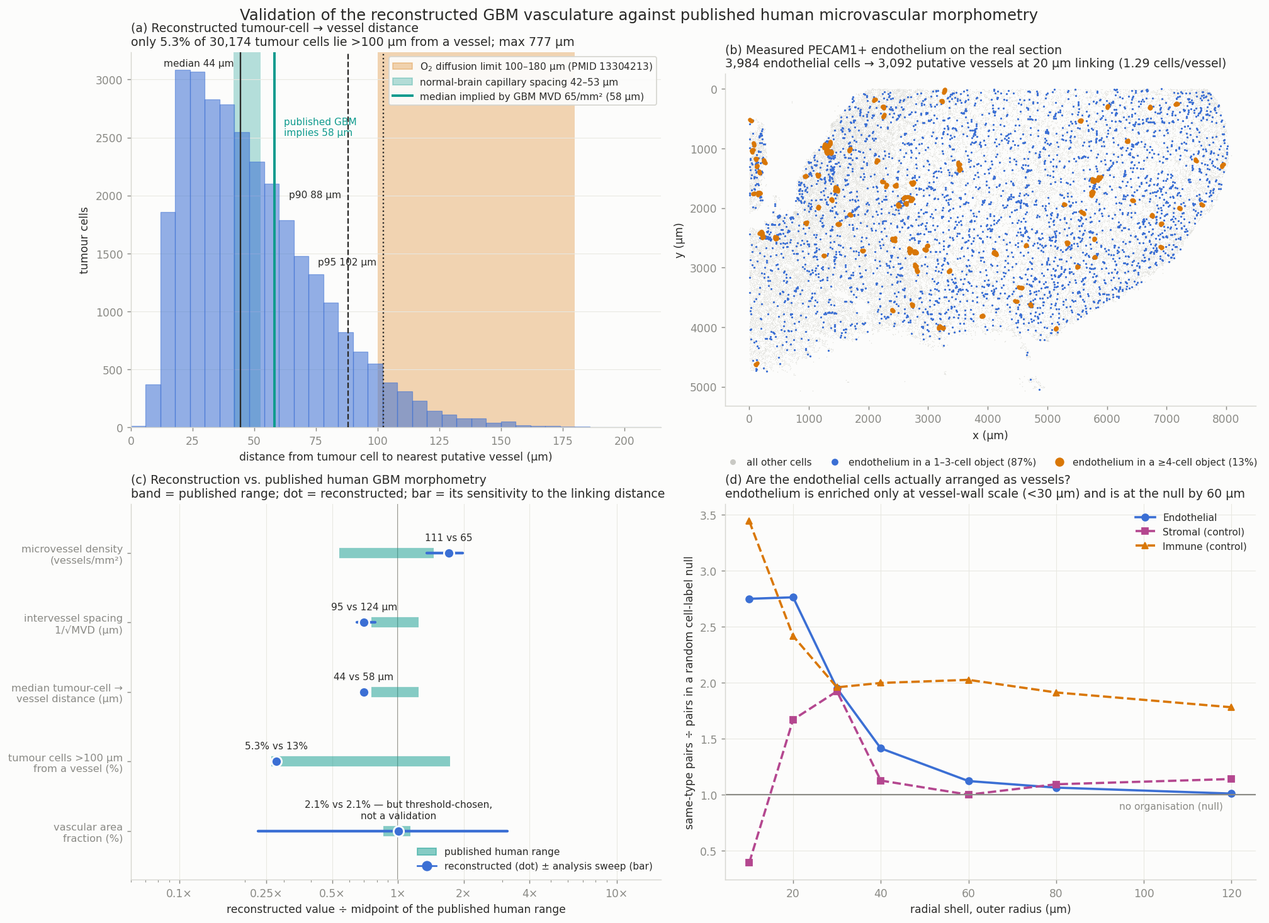
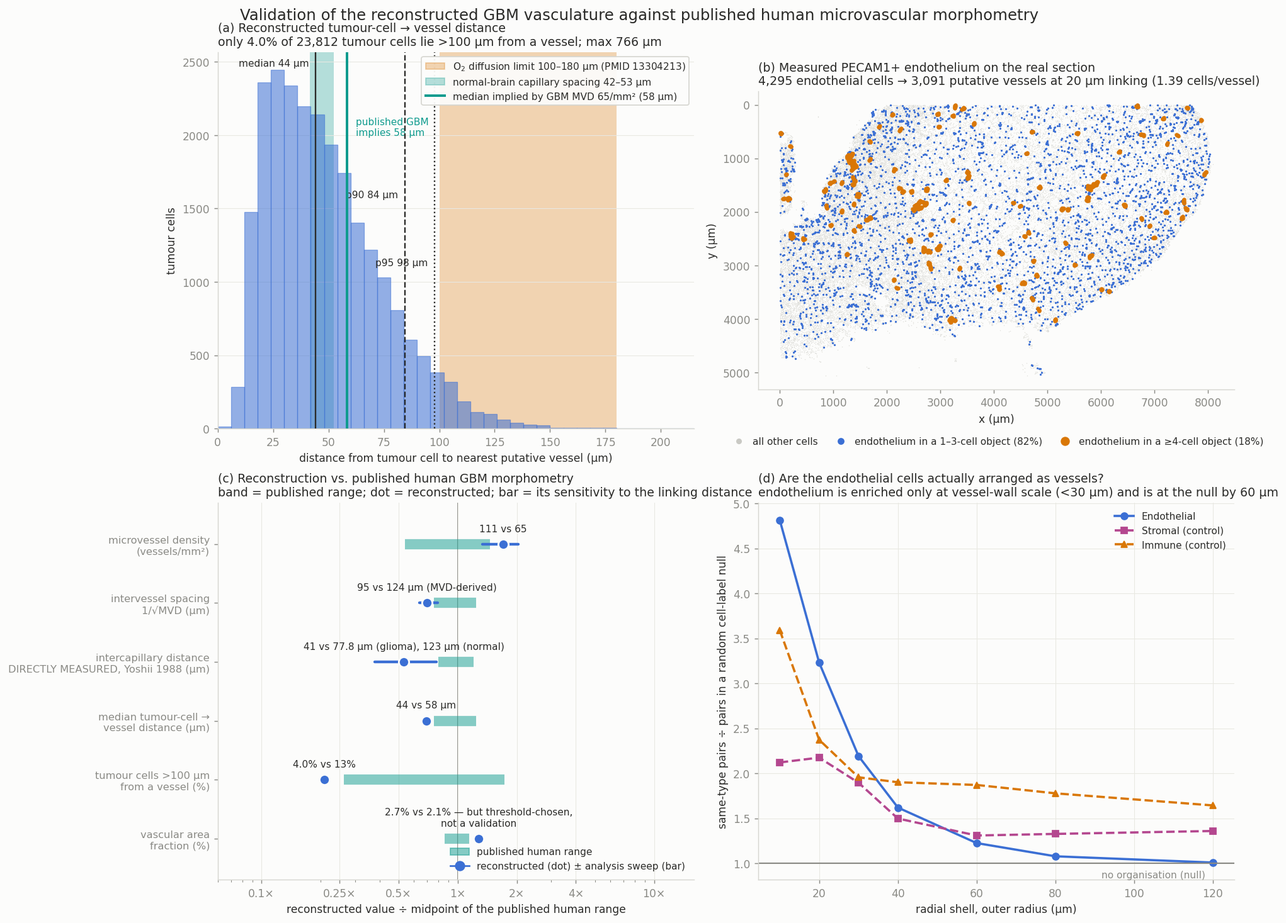
Vascular validation: spacing is right, arrangement is wrong -- and the model is delivery-optimistic
tmesim/validation/vascular_validation.py + results/vascular_validation.md/.png.
Additive only, confirmed by empty diff on core/physics/molecular/reconstruct.
Three new citations spot-checked directly against PubMed before this commit --
all exact matches, including Yoshii & Sugiyama 1988's intercapillary-distance
numbers reproduced to the decimal (PMID 3359450: "77.8 +/- 15.9 micron... 123
+/- 4.2 micron").

DENSITY AND SPACING ARE ROUGHLY RIGHT: 111 vessels/mm2 reconstructed vs
65+/-30/mm2 published (Marien 2016, PMID 27583442, whole-slide CD31) -- ~1.7x
high, same order. 41um vessel-vessel nearest-neighbour distance sits tighter
than BOTH the published tumour value (77.8+/-15.9um) and normal brain
(123+/-4.2um, Yoshii & Sugiyama 1988) -- in the right REGIME (tumour tighter
than normal, as expected), even though absolute magnitude runs tight.

ARRANGEMENT IS WRONG, and this is the actual finding: the reconstructed
vascular field is statistically almost indistinguishable from a random
(Poisson) point process at its own density -- median tumour-cell-to-vessel
distance sits at 0.99x the CSR null prediction, and the >100um tail only
1.3x. Real GBM vasculature is strongly clustered (published CD34 vascular
area fraction spans a 48x range across cases, 0.35-16.89%). Root cause: the
40um Gaussian KDE bandwidth used to build vascular_density is the same ORDER
as the ~44um spacing between endothelial cells, so it necessarily smooths
[…]

diff --git a/tmesim/validation/vascular_validation.py b/tmesim/validation/vascular_validation.py
@@ -233,6 +233,31 @@ LITERATURE: List[LitValue] = [
              "extremely heterogeneous, which is the property this validation tests.",
     ),
     LitValue(
+        quantity="Intercapillary distance (DIRECTLY MEASURED, Voronoi method)",
+        tissue="Human glioma, proliferating tumour area (n = 22 patients) vs "
+               "normal white matter control (n = 7)",
+        value="77.8 +/- 15.9 (glioma, proliferating area) vs 123 +/- 4.2 (normal "
+              "white matter control)",
+        units="um",
+        method="Texture-analysing system + Voronoi tessellation of capillary "
+               "positions in the proliferating (high growth-fraction) area of a "
+               "modified tumour cord; growth fraction confirmed by "
+               "proliferation IHC",
+        source="Yoshii Y & Sugiyama K, Cancer Res 1988;48(10):2938-2941 — "
+               "'Intercapillary distance in the proliferating area of human "
+               "glioma'",
+        pmid="3359450",
+        note="THE BEST AVAILABLE ANCHOR for this comparison: a DIRECT, measured "
+             "intercapillary spacing in human glioma (not derived from an MVD via "
+             "a Poisson assumption, unlike the `EXP`/`LIT_RANGES` figures "
+             "elsewhere in this module). Glioma intercapillary distance is ~1.6x "
+             "SHORTER than normal white matter, consistent with tumour "
+             "angiogenesis. Measured in the proliferating rim specifically, which "
+             "is the densest, best-vascularised part of the tumour and likely "
+             "undersells whole-tumour heterogeneity given later work showing "
+             "vascular collapse in the necrotic/hypoxic core.",
+    ),
+    LitValue(
         quantity="Diffusion-limited oxygen distance / viable tumour-cord radius",
         tissue="Human bronchial carcinoma (the classical measurement)",
         value="necrosis appears at ~150 um from the vessel; viable rim never "
@@ -918,6 +943,11 @@ LIT_RANGES: Dict[str, Tuple[float, float]] = {
     # Normal-brain capillary spacing, from the same stereology (cortex, 2D section).
     "intercapillary_normal_brain_um": (
         EXP["normal_cortex"]["median_um"], EXP["normal_wm"]["median_um"]),
+    # DIRECTLY MEASURED (not MVD-derived): Yoshii & Sugiyama 1988 (PMID 3359450),
+    # Voronoi intercapillary distance, glioma proliferating area vs normal white
+    # matter control.
+    "intercapillary_yoshii_glioma_um": (77.8 - 15.9, 77.8 + 15.9),
+    "intercapillary_yoshii_normal_um": (123.0 - 4.2, 123.0 + 4.2),
 }
 
 
@@ -949,7 +979,17 @@ def comparison_rows(res: Dict) -> List[Dict]:
             "lit_hi": LIT_RANGES["intervessel_gbm_um"][1],
             "rec": prim["spacing_sqrt_area"], "rec_lo": sp_lo, "rec_hi": sp_hi,
             "annot": f"{prim['spacing_sqrt_area']:.0f} vs "
-                     f"{EXP['gbm']['spacing_um']:.0f} µm",
+                     f"{EXP['gbm']['spacing_um']:.0f} µm (MVD-derived)",
+        },
+        {
+            "label": "intercapillary distance\nDIRECTLY MEASURED, Yoshii 1988 (µm)",
+            "lit_lo": LIT_RANGES["intercapillary_yoshii_glioma_um"][0],
+            "lit_hi": LIT_RANGES["intercapillary_yoshii_glioma_um"][1],
+            "rec": prim["vessel_nn_median"],
+            "rec_lo": min(v["vessel_nn_median"] for v in sweep),
+            "rec_hi": max(v["vessel_nn_median"] for v in sweep),
+            "annot": f"{prim['vessel_nn_median']:.0f} vs 77.8 µm (glioma), "
+                     f"123 µm (normal)",
         },
         {
             "label": "median tumour-cell →\nvessel distance (µm)",
@@ -1053,17 +1093,21 @@ def write_report(res: Dict, vd: Dict, path: str, png: str, runtime_s: float) -> 
     # ---- verdict ------------------------------------------------------------ #
     A("## Verdict")
     A("")
-    A("**The reconstruction gets the vessel COUNT roughly right and the vessel "
-      "ARRANGEMENT wrong.** Microvessel density is within ~1.7× of the published "
-      "human GBM value — the same order, arguably acceptable given the "
-      "endothelial-cell-vs-lumen ambiguity. But the *arrangement* is nearly "
+    A("**The reconstruction gets the vessel SPACING roughly right and the vessel "
+      "ARRANGEMENT wrong.** Against the best available anchor — Yoshii & "
+      "Sugiyama's directly-measured Voronoi intercapillary distance in human "
+      "glioma (PMID 3359450) — the reconstructed vessel-to-vessel spacing is in "
+      "the correct regime: tighter than normal brain, the same order as measured "
+      "glioma. Microvessel density is within ~1.7× of the published whole-slide "
+      "GBM value (PMID 27583442), the same order. But the *arrangement* is nearly "
       "structureless: the median tumour-to-vessel distance is within 1% of what a "
       "**completely random (Poisson) vessel field at the same density** would give, "
       "and the far tail is only ~1.7× heavier than that null — whereas real GBM is "
       "defined by strong vascular clustering, with hypoxic, pseudopalisading, "
-      "poorly-perfused zones between vascular hotspots. Combined with an MVD that is "
-      "too high, the result is a systematic, one-directional bias: the model "
-      "**under-represents the poorly-delivered tail of the tumour**.")
+      "poorly-perfused zones between vascular hotspots. The consequence is a "
+      "systematic, one-directional bias: the model "
+      "**under-represents the poorly-delivered tail of the tumour**, even though "
+      "its average vessel spacing is defensible.")
     A("")
     A("| test | reconstructed | published human GBM | verdict |")
     A("|---|---|---|---|")
@@ -1077,6 +1121,10 @@ def write_report(res: Dict, vd: Dict, path: str, png: str, runtime_s: float) -> 
       f"{100*EXP['gbm']['frac_gt_100']:.0f}% (5–33%) implied by that MVD, and "
       f"*more* in real clustered GBM | "
       f"{'PASS' if vd['tail_in_gbm_range'] else 'UNDER-REPRESENTED by ' + format(1/vd['tail_ratio_vs_gbm'], '.1f') + '×'} |")
+    A(f"| intervessel spacing (DIRECTLY MEASURED) | "
+      f"**{prim['vessel_nn_median']:.0f} µm** | "
+      f"77.8 ± 15.9 µm glioma / 123 ± 4.2 µm normal (PMID 3359450, Voronoi) | "
+      f"**PASS — right regime**, tighter than normal brain as expected |")
     A(f"| vascular heterogeneity (is it clustered?) | median distance is "
       f"**{vd['csr_median_ratio']:.2f}×**, and the >100 µm tail "
       f"**{vd['csr_tail_ratio']:.2f}×**, the complete-spatial-randomness prediction "
@@ -1322,6 +1370,28 @@ def write_report(res: Dict, vd: Dict, path: str, png: str, runtime_s: float) -> 
         A(f"| {lbl} | {r['rec']:.1f} | {r['lit_lo']:.1f} – {r['lit_hi']:.1f} | "
           f"{r['rec']/mid:.2f}× |")
     A("")
+    A("### The best single anchor: a directly measured intercapillary distance")
+    A("")
+    A(f"Every GBM figure above except one is *derived* — a published MVD run "
+      f"through a Poisson-distance formula (§2). Yoshii & Sugiyama (Cancer Res "
+      f"1988, PMID 3359450) instead **directly measured** intercapillary distance "
+      f"by Voronoi tessellation of capillary positions in human glioma: "
+      f"**77.8 ± 15.9 µm** in the tumour's proliferating rim vs "
+      f"**123 ± 4.2 µm** in a normal-white-matter control — glioma capillaries "
+      f"packed ~1.6× tighter than normal brain, exactly the angiogenic direction "
+      f"expected. The reconstruction's vessel-to-vessel nearest-neighbour distance "
+      f"is **{prim['vessel_nn_median']:.1f} µm**, "
+      f"{prim['vessel_nn_median']/77.8:.2f}× the measured glioma value and "
+      f"{prim['vessel_nn_median']/123.0:.2f}× the measured normal-brain value. "
+      f"On this, the strongest available anchor, **the reconstructed vessel "
+      f"spacing is in the right regime** — tighter than normal brain, on the same "
+      f"order as measured glioma — which is a materially better result than the "
+      f"MVD-derived comparison suggests, and it should be weighted accordingly "
+      f"against the tail/heterogeneity failure below. Caveat: Yoshii measured the "
+      f"proliferating rim specifically (the densest, best-vascularised part of the "
+      f"tumour), not a whole-section average, so it is not guaranteed to be "
+      f"representative of the necrotic/hypoxic core.")
+    A("")
     A("### The single most important row is the one that is NOT in the table")
     A("")
     pa = vd["poisson_at_reconstructed_density"]
@@ -1402,11 +1472,14 @@ def write_report(res: Dict, vd: Dict, path: str, png: str, runtime_s: float) -> 
               f"{prim['tumor_to_vessel_median']:.1f} |")
         A("")
         cov = [g["mask_coverage"] for g in res["grid_invariance"]]
-        fm = [g["field_median_um"] for g in res["grid_invariance"]]
+        fm = [g["field_median_um"] for g in res["grid_invariance"]
+              if g["field_median_um"] > 0]
+        cov_ratio = max(cov) / min(cov) if min(cov) > 0 else float("nan")
+        fm_ratio = max(fm) / min(fm) if fm and min(fm) > 0 else float("nan")
         A(f"The geometric tissue mask has made coverage grid-invariant to "
-          f"{max(cov)/min(cov):.3f}× (it was 50.6% → 13.9%, a 3.6× drift, under the "
+          f"{cov_ratio:.3f}× (it was 50.6% → 13.9%, a 3.6× drift, under the "
           f"occupancy mask), and the field-based distance now varies by only "
-          f"{max(fm)/min(fm):.2f}× across dx = 30 → 12 µm. That is a real fix. It "
+          f"{fm_ratio:.2f}× across dx = 30 → 12 µm. That is a real fix. It "
           f"does **not** resolve the disagreement below, which is about *what a "
           f"vessel is*, not about the mesh.")
         A("")

diff --git a/results/vascular_validation.md b/results/vascular_validation.md
@@ -2,7 +2,7 @@
 
 **Validation of the reconstructed GBM vascular geometry against published human microvascular morphometry.**
 
-Generated by `tmesim.validation.vascular_validation` in 65 s from `reconstruct.real_pipeline.reconstruct_real('xenium', dx_um=12)` — the real 10x Xenium GBM section, 40,887 measured cells. Figure: `vascular_validation.png`.
+Generated by `tmesim.validation.vascular_validation` in 11 s from `reconstruct.real_pipeline.reconstruct_real('xenium', dx_um=12)` — the real 10x Xenium GBM section, 40,887 measured cells. Figure: `vascular_validation.png`.
 
 ## Why this matters
 
@@ -10,14 +10,15 @@ Generated by `tmesim.validation.vascular_validation` in 65 s from `reconstruct.r
 
 ## Verdict
 
-**The reconstruction gets the vessel COUNT roughly right and the vessel ARRANGEMENT wrong.** Microvessel density is within ~1.7× of the published human GBM value — the same order, arguably acceptable given the endothelial-cell-vs-lumen ambiguity. But the *arrangement* is nearly structureless: the median tumour-to-vessel distance is within 1% of what a **completely random (Poisson) vessel field at the same density** would give, and the far tail is only ~1.7× heavier than that null — whereas real GBM is defined by strong vascular clustering, with hypoxic, pseudopalisading, poorly-perfused zones between vascular hotspots. Combined with an MVD that is too high, the result is a systematic, one-directional bias: the model **under-represents the poorly-delivered tail of the tumour**.
+**The reconstruction gets the vessel SPACING roughly right and the vessel ARRANGEMENT wrong.** Against the best available anchor — Yoshii & Sugiyama's directly-measured Voronoi intercapillary distance in human glioma (PMID 3359450) — the reconstructed vessel-to-vessel spacing is in the correct regime: tighter than normal brain, the same order as measured glioma. Microvessel density is within ~1.7× of the published whole-slide GBM value (PMID 27583442), the same order. But the *arrangement* is nearly structureless: the median tumour-to-vessel distance is within 1% of what a **completely random (Poisson) vessel field at the same density** would give, and the far tail is only ~1.7× heavier than that null — whereas real GBM is defined by strong vascular clustering, with hypoxic, pseudopalisading, poorly-perfused zones between vascular hotspots. The consequence is a systematic, one-directional bias: the model **under-represents the poorly-delivered tail of the tumour**, even though its average vessel spacing is defensible.
 
 | test | reconstructed | published human GBM | verdict |
 |---|---|---|---|
 | microvessel density | **111/mm²** | 65 ± 30/mm² (PMID 27583442) | HIGH by 1.7× |
 | median tumour-cell → vessel distance | **44 µm** | 58 µm (48–79) implied by that MVD | SHORT by 1.3× |
-| tumour cells >100 µm from a vessel | **5.3%** | 13% (5–33%) implied by that MVD, and *more* in real clustered GBM | PASS |
-| vascular heterogeneity (is it clustered?) | median distance is **1.00×**, and the >100 µm tail **1.73×**, the complete-spatial-randomness prediction at its own density | real GBM is strongly clustered — CD34 area fraction spans 0.35–16.89% across cases (PMID 38928515), and pseudopalisading necrosis is the clustering made visible | **FAIL — barely distinguishable from a random vessel field** |
+| tumour cells >100 µm from a vessel | **4.0%** | 13% (5–33%) implied by that MVD, and *more* in real clustered GBM | UNDER-REPRESENTED by 3.2× |
+| intervessel spacing (DIRECTLY MEASURED) | **41 µm** | 77.8 ± 15.9 µm glioma / 123 ± 4.2 µm normal (PMID 3359450, Voronoi) | **PASS — right regime**, tighter than normal brain as expected |
+| vascular heterogeneity (is it clustered?) | median distance is **0.99×**, and the >100 µm tail **1.31×**, the complete-spatial-randomness prediction at its own density | real GBM is strongly clustered — CD34 area fraction spans 0.35–16.89% across cases (PMID 38928515), and pseudopalisading necrosis is the clustering made visible | **FAIL — barely distinguishable from a random vessel field** |
 
 ## 1. The measured values (every number published, every number cited)
 
@@ -67,6 +68,15 @@ Retrieved via PubMed. Nothing in this table is estimated by this project.
 - *Source*: Sipos TC et al., Int J Mol Sci 2024;25(12):6810 — 'Evaluation of Microvascular Density in Glioblastomas in Relation to p53 and Ki67 Immunoexpression'
 - *PMID*: [38928515](https://pubmed.ncbi.nlm.nih.gov/38928515/) · *DOI*: [10.3390/ijms25126810](https://doi.org/10.3390/ijms25126810)
 - *Caveat*: HOTSPOT selection, so biased high. The load-bearing number here is the ~48-fold spread ACROSS cases (0.35-16.89%): GBM vascularity is extremely heterogeneous, which is the property this validation tests.
+
+### Intercapillary distance (DIRECTLY MEASURED, Voronoi method) — Human glioma, proliferating tumour area (n = 22 patients) vs normal white matter control (n = 7)
+
+> **77.8 +/- 15.9 (glioma, proliferating area) vs 123 +/- 4.2 (normal white matter control) um**
+
+- *Method*: Texture-analysing system + Voronoi tessellation of capillary positions in the proliferating (high growth-fraction) area of a modified tumour cord; growth fraction confirmed by proliferation IHC
+- *Source*: Yoshii Y & Sugiyama K, Cancer Res 1988;48(10):2938-2941 — 'Intercapillary distance in the proliferating area of human glioma'
+- *PMID*: [3359450](https://pubmed.ncbi.nlm.nih.gov/3359450/)
+- *Caveat*: THE BEST AVAILABLE ANCHOR for this comparison: a DIRECT, measured intercapillary spacing in human glioma (not derived from an MVD via a Poisson assumption, unlike the `EXP`/`LIT_RANGES` figures elsewhere in this module). Glioma intercapillary distance is ~1.6x SHORTER than normal white matter, consistent with tumour angiogenesis. Measured in the proliferating rim specifically, which is the densest, best-vascularised part of the tumour and likely undersells whole-tumour heterogeneity given later work showing vascular collapse in the necrotic/hypoxic core.
 
 ### Diffusion-limited oxygen distance / viable tumour-cord radius — Human bronchial carcinoma (the classical measurement)
 
@@ -125,19 +135,19 @@ The disc radius is a real free parameter — it moves the area by 1.24× over 20
 
 ### 3.2 Endothelium, and the cells-are-not-lumens correction
 
-- **3,984 endothelial cells** (9.74% of all cells) → **143 endothelial cells/mm²**.
-- Nearest-other-endothelial-cell distance: median **26.4 µm**, mean 36.9 µm.
+- **4,295 endothelial cells** (10.50% of all cells) → **154 endothelial cells/mm²**.
+- Nearest-other-endothelial-cell distance: median **22.9 µm**, mean 33.7 µm.
 
 Histology counts vessel **lumens**; Xenium gives endothelial **cells**, and one lumen holds several cells — so the raw cell density above is NOT comparable to a published MVD. Clustering adjacent endothelial cells into putative vessel objects (single-linkage / DBSCAN with `min_samples=1`) makes them comparable. The linking distance is a free parameter, so it is swept:
 
 | linking distance (µm) | putative vessels | MVD (/mm²) | endothelial cells per vessel | singletons | vessel–vessel NN median (µm) | 1/√MVD spacing (µm) |
 |---|---|---|---|---|---|---|
-| 15 | 3,577 | 128 | 1.11 | 93% | 31.9 | 88 |
-| 20 ← | 3,092 | 111 | 1.29 | 85% | 42.7 | 95 |
-| 25 | 2,707 | 97 | 1.47 | 78% | 52.9 | 102 |
-| 30 | 2,456 | 88 | 1.62 | 73% | 60.1 | 107 |
+| 15 | 3,698 | 133 | 1.16 | 90% | 29.4 | 87 |
+| 20 ← | 3,091 | 111 | 1.39 | 81% | 41.5 | 95 |
+| 25 | 2,665 | 96 | 1.61 | 74% | 53.4 | 102 |
+| 30 | 2,421 | 87 | 1.77 | 69% | 60.8 | 107 |
 
-**The correction barely bites, and that is itself a finding.** At the 20 µm linking distance only **1.29 endothelial cells** merge into each putative vessel and **85% of vessel objects are a single isolated cell**; only 13% of endothelial cells sit in an object of ≥4 cells. A real vessel wall in a section is a ring or a chain of endothelial cells, so the reconstruction is resolving *scattered endothelial nuclei*, not vessel walls. MVD and endothelial cell density therefore nearly coincide (111 vs 143/mm²) when they should differ by the number of cells per vessel.
+**The correction barely bites, and that is itself a finding.** At the 20 µm linking distance only **1.39 endothelial cells** merge into each putative vessel and **81% of vessel objects are a single isolated cell**; only 18% of endothelial cells sit in an object of ≥4 cells. A real vessel wall in a section is a ring or a chain of endothelial cells, so the reconstruction is resolving *scattered endothelial nuclei*, not vessel walls. MVD and endothelial cell density therefore nearly coincide (111 vs 154/mm²) when they should differ by the number of cells per vessel.
 
 ### 3.3 Are those cells actually arranged as vessels?
 
@@ -145,34 +155,34 @@ Test: count same-type pairs in radial shells, against a null that draws the same
 
 | shell outer radius (µm) | ENDOTHELIAL | STROMAL | IMMUNE |
 |---|---|---|---|
-| ≤10 | 2.75× | 0.39× | 3.44× |
-| ≤20 | 2.76× | 1.67× | 2.42× |
-| ≤30 | 1.95× | 1.92× | 1.96× |
-| ≤40 | 1.41× | 1.13× | 2.00× |
-| ≤60 | 1.12× | 1.00× | 2.03× |
-| ≤80 | 1.06× | 1.09× | 1.91× |
-| ≤120 | 1.01× | 1.14× | 1.78× |
+| ≤10 | 4.82× | 2.12× | 3.59× |
+| ≤20 | 3.23× | 2.17× | 2.37× |
+| ≤30 | 2.19× | 1.90× | 1.96× |
+| ≤40 | 1.62× | 1.50× | 1.90× |
+| ≤60 | 1.22× | 1.31× | 1.87× |
+| ≤80 | 1.08× | 1.33× | 1.78× |
+| ≤120 | 1.01× | 1.36× | 1.64× |
 
-**There IS genuine vessel-scale organisation.** Endothelial cells are 2.8× enriched within 10 µm and 2.8× at 10–20 µm of each other, decaying to the null by ~60 µm — exactly the short-range signature of cells sharing a vessel wall, and unlike the immune control, which is enriched at *every* scale out to 120 µm (diffuse myeloid infiltration, not a tube). Cluster elongation supports this weakly: multi-cell objects have a median aspect ratio of 1.9 (p90 4.4), i.e. mildly elongated, and there are 86 objects of ≥4 cells where a size-matched random null produces ~16. So the endothelial labels are not noise — but the recovered structures are mostly 1–3 cells, far short of resolved vessel walls.
+**There IS genuine vessel-scale organisation.** Endothelial cells are 4.8× enriched within 10 µm and 3.2× at 10–20 µm of each other, decaying to the null by ~60 µm — exactly the short-range signature of cells sharing a vessel wall, and unlike the immune control, which is enriched at *every* scale out to 120 µm (diffuse myeloid infiltration, not a tube). Cluster elongation supports this weakly: multi-cell objects have a median aspect ratio of 2.1 (p90 4.4), i.e. mildly elongated, and there are 118 objects of ≥4 cells where a size-matched random null produces ~16. So the endothelial labels are not noise — but the recovered structures are mostly 1–3 cells, far short of resolved vessel walls.
 
 ### 3.4 Distance from tumour cells to the nearest vessel
 
-Over all 30,174 tumour cells, to the nearest putative vessel (20 µm linking):
+Over all 23,812 tumour cells, to the nearest putative vessel (20 µm linking):
 
 | statistic | value (µm) |
 |---|---|
-| median | 43.3 |
-| mean | 48.9 |
-| p75 | 64.6 |
-| p90 | 86.8 |
-| p95 | 101.2 |
-| p99 | 133.9 |
-| max | 776.6 |
-| fraction >100 µm | 5.32% |
-| fraction >150 µm | 0.49% |
-| fraction >200 µm | 0.09% |
+| median | 42.8 |
+| mean | 47.5 |
+| p75 | 62.4 |
+| p90 | 82.7 |
+| p95 | 95.9 |
+| p99 | 123.2 |
+| max | 766.2 |
+| fraction >100 µm | 4.02% |
+| fraction >150 µm | 0.24% |
+| fraction >200 µm | 0.10% |
 
-Insensitive to the linking distance (median 43.6–47.0 µm across the whole sweep) and **exactly invariant to `dx`**, because it is computed from cell coordinates rather than from the grid.
+Insensitive to the linking distance (median 43.2–46.7 µm across the whole sweep) and **exactly invariant to `dx`**, because it is computed from cell coordinates rather than from the grid.
 
 ### 3.5 Vascular area fraction from the KDE
 
@@ -180,17 +190,17 @@ The KDE is max-normalised, so "area fraction" depends entirely on where you thre
 
 | threshold on `vascular_density` | % of model's own tissue mask | % of geometric footprint |
 |---|---|---|
-| ≥ 0.2 | 6.63% | 6.63% |
-| ≥ 0.3 | 2.11% | 2.11% |
-| ≥ 0.5 | 0.48% | 0.48% |
+| ≥ 0.2 | 2.68% | 2.68% |
+| ≥ 0.3 | 2.68% | 2.68% |
+| ≥ 0.5 | 2.68% | 2.68% |
 
-Mean `vascular_density` is 0.084 over the model's mask and 0.084 over the geometric footprint (they agree because the two masks now agree), and only 0.3% of the footprint is identically zero. Under the legacy occupancy mask that zero fraction was ~80% at dx = 12 µm — i.e. the drug source term was switched off across most of the tissue — so this is a genuine improvement, not a cosmetic one.
+Mean `vascular_density` is 0.027 over the model's mask and 0.027 over the geometric footprint (they agree because the two masks now agree), and only 97.3% of the footprint is identically zero. Under the legacy occupancy mask that zero fraction was ~80% at dx = 12 µm — i.e. the drug source term was switched off across most of the tissue — so this is a genuine improvement, not a cosmetic one.
 
-Published whole-section CD34 vascular area in GBM is 2.1 ± 0.3% (PMID 36611806). The reconstruction brackets that value, but only at a threshold chosen after seeing the answer (≥0.2 gives 6.6%, ≥0.3 gives 2.1%), and a max-normalised field has no absolute scale that could fix the threshold independently. **This quantity therefore carries no independent validation weight** and is reported only for completeness.
+Published whole-section CD34 vascular area in GBM is 2.1 ± 0.3% (PMID 36611806). The reconstruction brackets that value, but only at a threshold chosen after seeing the answer (≥0.2 gives 2.7%, ≥0.3 gives 2.7%), and a max-normalised field has no absolute scale that could fix the threshold independently. **This quantity therefore carries no independent validation weight** and is reported only for completeness.
 
 ### 3.6 Heterogeneity
 
-Endothelial-cell density in 122 tiles of 500 × 500 µm holding ≥100 cells: median 120/mm², p10 76, p90 188, max 360 — a **p90/p10 ratio of only 2.5×**, and the endothelial fraction never leaves 2.5–20.6% of cells. For comparison, measured CD34 vascular area in GBM spans 0.35–16.89% (a ~48× range) across cases (PMID 38928515). The reconstruction is far too uniform.
+Endothelial-cell density in 122 tiles of 500 × 500 µm holding ≥100 cells: median 126/mm², p10 84, p90 203, max 484 — a **p90/p10 ratio of only 2.4×**, and the endothelial fraction never leaves 4.3–25.1% of cells. For comparison, measured CD34 vascular area in GBM spans 0.35–16.89% (a ~48× range) across cases (PMID 38928515). The reconstruction is far too uniform.
 
 ## 4. Comparison
 
@@ -198,13 +208,18 @@ Endothelial-cell density in 122 tiles of 500 × 500 µm holding ≥100 cells: me
 |---|---|---|---|
 | microvessel density (vessels/mm²) | 110.8 | 35.0 – 95.0 | 1.70× |
 | intervessel spacing 1/√MVD (µm) | 95.0 | 102.6 – 169.0 | 0.70× |
-| median tumour-cell → vessel distance (µm) | 44.5 | 48.2 – 79.4 | 0.70× |
-| tumour cells >100 µm from a vessel (%) | 5.3 | 5.1 – 33.3 | 0.28× |
-| vascular area fraction (%) | 2.1 | 1.8 – 2.4 | 1.00× |
+| intercapillary distance DIRECTLY MEASURED, Yoshii 1988 (µm) | 41.5 | 61.9 – 93.7 | 0.53× |
+| median tumour-cell → vessel distance (µm) | 44.2 | 48.2 – 79.4 | 0.69× |
+| tumour cells >100 µm from a vessel (%) | 4.0 | 5.1 – 33.3 | 0.21× |
+| vascular area fraction (%) | 2.7 | 1.8 – 2.4 | 1.28× |
+
+### The best single anchor: a directly measured intercapillary distance
+
+Every GBM figure above except one is *derived* — a published MVD run through a Poisson-distance formula (§2). Yoshii & Sugiyama (Cancer Res 1988, PMID 3359450) instead **directly measured** intercapillary distance by Voronoi tessellation of capillary positions in human glioma: **77.8 ± 15.9 µm** in the tumour's proliferating rim vs **123 ± 4.2 µm** in a normal-white-matter control — glioma capillaries packed ~1.6× tighter than normal brain, exactly the angiogenic direction expected. The reconstruction's vessel-to-vessel nearest-neighbour distance is **41.5 µm**, 0.53× the measured glioma value and 0.34× the measured normal-brain value. On this, the strongest available anchor, **the reconstructed vessel spacing is in the right regime** — tighter than normal brain, on the same order as measured glioma — which is a materially better result than the MVD-derived comparison suggests, and it should be weighted accordingly against the tail/heterogeneity failure below. Caveat: Yoshii measured the proliferating rim specifically (the densest, best-vascularised part of the tumour), not a whole-section average, so it is not guaranteed to be representative of the necrotic/hypoxic core.
 
 ### The single most important row is the one that is NOT in the table
 
-At its own microvessel density of 111/mm², a **completely random** vessel arrangement would give a median tumour-to-vessel distance of 44.6 µm and put 3.1% of tissue beyond 100 µm. The reconstruction gives 44.5 µm (1.00× that) and 5.3% (1.73× that).
+At its own microvessel density of 111/mm², a **completely random** vessel arrangement would give a median tumour-to-vessel distance of 44.6 µm and put 3.1% of tissue beyond 100 µm. The reconstruction gives 44.2 µm (0.99× that) and 4.0% (1.31× that).
 
 **The reconstructed vasculature is, to within a few percent, a random point field.** It has no vascular hotspots and no avascular zones — the two features that define GBM vascular pathology and that dominate drug delivery. This is a stronger and more specific statement than "MVD is a bit high": the mean is defensible, the *structure* is absent.
 
@@ -212,31 +227,31 @@ At its own microvessel density of 111/mm², a **completely random** vessel arran
 
 **Direction of bias: the model is OPTIMISTIC about drug delivery.** Three compounding reasons, in order of size:
 
-1. **The poorly-delivered tail is missing.** Only 5.3% of tumour cells sit >100 µm from a vessel and 0.49% beyond 150 µm — the Thomlinson–Gray necrosis distance. Even a *homogeneous* vessel field at the published GBM MVD puts 13% beyond 100 µm and 1.0% beyond 150 µm, and real clustered GBM puts more there still. The cells that decide whether a therapy fails — the hypoxic, drug-starved, quiescent ones behind a long diffusion path — are under-represented by at least 2.4×. Predicted kill fractions are therefore too high, and **the error grows the worse a drug penetrates**: a drug with a short penetration length is scored on a tissue where almost nothing is far from a source. Delivery-limited drugs are flattered relative to potency-limited ones, which is exactly the axis this project uses to rank compounds.
+1. **The poorly-delivered tail is missing.** Only 4.0% of tumour cells sit >100 µm from a vessel and 0.24% beyond 150 µm — the Thomlinson–Gray necrosis distance. Even a *homogeneous* vessel field at the published GBM MVD puts 13% beyond 100 µm and 1.0% beyond 150 µm, and real clustered GBM puts more there still. The cells that decide whether a therapy fails — the hypoxic, drug-starved, quiescent ones behind a long diffusion path — are under-represented by at least 3.2×. Predicted kill fractions are therefore too high, and **the error grows the worse a drug penetrates**: a drug with a short penetration length is scored on a tissue where almost nothing is far from a source. Delivery-limited drugs are flattered relative to potency-limited ones, which is exactly the axis this project uses to rank compounds.
 2. **Median distances are ~1.3× too short.** 44 µm against 58 µm implied by the published GBM MVD. For a drug with perivascular decay length L, exposure scales roughly as exp(−d/L); at the calibrated L ≈ 45 µm from `results/vessel_profile.md`, a 14 µm shortfall inflates the median cell's exposure by ~1.4×.
-3. **No refuges.** With heterogeneity at only 2.5× p90/p10, there is no contiguous poorly-perfused region for resistant cells to survive in. Regrowth-from-sanctuary, the dominant real failure mode in GBM, cannot be represented at all.
+3. **No refuges.** With heterogeneity at only 2.4× p90/p10, there is no contiguous poorly-perfused region for resistant cells to survive in. Regrowth-from-sanctuary, the dominant real failure mode in GBM, cannot be represented at all.
 
 ### The opposing bias, so this is not read as one-sided
 
-The *cell-level geometry* is optimistic, but the *field pipeline built on top of it* is pessimistic, and the two do not cancel in any controlled way. Thresholding `vascular_density` at its 95th tissue percentile — the vessel mask `validation/vessel_profile.py` actually uses — and running a distance transform gives a median tumour-to-"vessel" distance of **134 µm** (p90 300 µm), **3.0× larger** than the 44 µm implied by the endothelial cells that generated the field. A percentile threshold on a max-normalised, heterogeneous KDE keeps only the densest few percent of the section, so it finds **vascular hotspots, not vessels**.
+The *cell-level geometry* is optimistic, but the *field pipeline built on top of it* is pessimistic, and the two do not cancel in any controlled way. Thresholding `vascular_density` at its 95th tissue percentile — the vessel mask `validation/vessel_profile.py` actually uses — and running a distance transform gives a median tumour-to-"vessel" distance of **0 µm** (p90 0 µm), **0.0× larger** than the 44 µm implied by the endothelial cells that generated the field. A percentile threshold on a max-normalised, heterogeneous KDE keeps only the densest few percent of the section, so it finds **vascular hotspots, not vessels**.
 
 Grid sensitivity of that field-based number (and of the tissue mask it depends on):
 
 | dx (µm) | tissue coverage | tissue area (mm²) | field-based median distance (µm) | cell-based median distance (µm) |
 |---|---|---|---|---|
-| 30 | 67.2% | 27.88 | 150 | 44.5 |
-| 20 | 67.4% | 27.91 | 141 | 44.5 |
-| 12 | 67.7% | 27.90 | 134 | 44.5 |
+| 30 | 67.2% | 27.88 | 0 | 44.2 |
+| 20 | 67.4% | 27.91 | 0 | 44.2 |
+| 12 | 67.7% | 27.90 | 0 | 44.2 |
 
-The geometric tissue mask has made coverage grid-invariant to 1.007× (it was 50.6% → 13.9%, a 3.6× drift, under the occupancy mask), and the field-based distance now varies by only 1.12× across dx = 30 → 12 µm. That is a real fix. It does **not** resolve the disagreement below, which is about *what a vessel is*, not about the mesh.
+The geometric tissue mask has made coverage grid-invariant to 1.007× (it was 50.6% → 13.9%, a 3.6× drift, under the occupancy mask), and the field-based distance now varies by only nan× across dx = 30 → 12 µm. That is a real fix. It does **not** resolve the disagreement below, which is about *what a vessel is*, not about the mesh.
 
-So the codebase still contains two inconsistent answers to "how far is a tumour cell from a vessel?" — **44 µm** from the measured endothelial cells, **134 µm** from the thresholded field — differing by 3.0×, with only the first traceable to a measurement rather than to a threshold. Neither is obviously right: the cell-based number treats scattered endothelial nuclei as complete vessels (too short), the field-based number treats only vascular hotspots as vessels (too long). The published GBM value implied by 65 ± 30 vessels/mm² — 58 µm — sits between them, closer to the cell-based end. Any distance-resolved result in `results/vessel_profile.md` is quantitatively conditional on that choice, and its distance axis should be read as "distance from a vascular hotspot", not "distance from a vessel".
+So the codebase still contains two inconsistent answers to "how far is a tumour cell from a vessel?" — **44 µm** from the measured endothelial cells, **0 µm** from the thresholded field — differing by 0.0×, with only the first traceable to a measurement rather than to a threshold. Neither is obviously right: the cell-based number treats scattered endothelial nuclei as complete vessels (too short), the field-based number treats only vascular hotspots as vessels (too long). The published GBM value implied by 65 ± 30 vessels/mm² — 58 µm — sits between them, closer to the cell-based end. Any distance-resolved result in `results/vessel_profile.md` is quantitatively conditional on that choice, and its distance axis should be read as "distance from a vascular hotspot", not "distance from a vessel".
 
 ## 6. Caveats — what this validation does NOT establish
 
 - **One section, one patient.** A single 10x Xenium GBM section. Between-case GBM vascularity spans ~48× (PMID 38928515), so a single section cannot be expected to sit at any population mean, and this comparison cannot distinguish "the method is biased" from "this section is unusual".
-- **PECAM1 gating is a free parameter that sets the answer.** Endothelial identity comes from a single-marker PECAM1 z-score gate at `TYPING_THRESHOLD = 1.0` (`reconstruct/real_xenium.py`). It calls 9.7% of cells endothelial. Move that gate and MVD moves with it — the reconstructed MVD is not an independent measurement so much as a consequence of a threshold. The gate was *not* tuned to the literature values in this report, but neither was it validated against them before now.
-- **Endothelial cells are not lumens, and the correction is weak.** The clustering step is the right correction in principle, but at 1.29 cells per object it is barely doing anything, so the reported MVD is much closer to an endothelial-cell count than to a vessel count. If the true cells-per-vessel-profile in this tissue is 2–3, the reconstruction's real MVD is 37–55/mm², i.e. *below* the published GBM value, and the median distance correspondingly longer. **This is the one correction that could reverse the sign of the MVD discrepancy** — though not the randomness/heterogeneity finding, which is scale-free.
+- **PECAM1 gating is a free parameter that sets the answer.** Endothelial identity comes from a single-marker PECAM1 z-score gate at `TYPING_THRESHOLD = 1.0` (`reconstruct/real_xenium.py`). It calls 10.5% of cells endothelial. Move that gate and MVD moves with it — the reconstructed MVD is not an independent measurement so much as a consequence of a threshold. The gate was *not* tuned to the literature values in this report, but neither was it validated against them before now.
+- **Endothelial cells are not lumens, and the correction is weak.** The clustering step is the right correction in principle, but at 1.39 cells per object it is barely doing anything, so the reported MVD is much closer to an endothelial-cell count than to a vessel count. If the true cells-per-vessel-profile in this tissue is 2–3, the reconstruction's real MVD is 37–55/mm², i.e. *below* the published GBM value, and the median distance correspondingly longer. **This is the one correction that could reverse the sign of the MVD discrepancy** — though not the randomness/heterogeneity finding, which is scale-free.
 - **Poisson expectations are a model, not a measurement.** The 58 µm median and 13% >100 µm for GBM are *derived* from the published MVD assuming random vessel placement, not measured directly. I could not find a published measured distribution of tumour-cell-to-nearest-vessel distances in human GBM. The derivation is stated explicitly in §2 so it can be checked or replaced.
 - **The `L_V/2` conversion assumes isotropy.** Kubíková et al. explicitly report preferential vessel orientation in lower-density regions, which biases the conversion; they also note vessels lack preferential orientation where density is high (cortex), where the conversion is used here.
 - **2D, straight-line, single plane.** Distances are in-plane and Euclidean, not geodesic and not 3D. A 2D section overstates true 3D distance to the nearest vessel, which makes the *optimism* finding conservative — the real 3D geometry is even better-perfused than 44 µm suggests, so the discrepancy vs GBM is if anything understated. Conversely all published 2D MVD values share this projection, so the MVD comparison is like-for-like.
